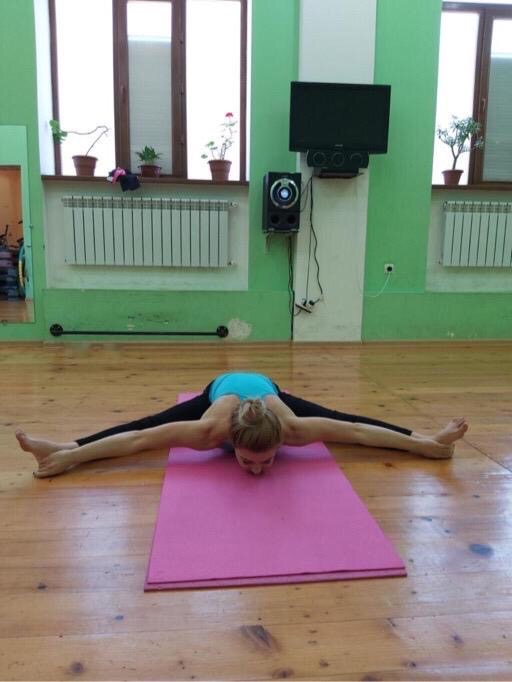
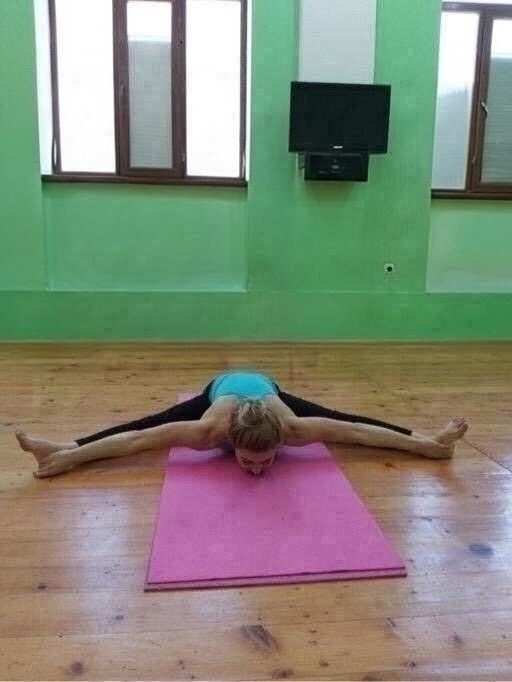
Put forest headstand first in gallery, use retouched forward fold photo

diff --git a/index.html b/index.html
@@ -281,12 +281,12 @@
     <p class="eyebrow">Պատկերասրահ</p>
     <h2>Իմ պրակտիկան</h2>
     <div class="gallery">
+      <figure class="wide"><img src="design-options/photos/forest-headstand.jpg" alt="Գլխի վրա կանգնած դիրք անտառում"></figure>
       <figure><img src="design-options/photos/studio-sidelunge.jpg" alt="Կողային խոր ձգում ստուդիայում"></figure>
-      <figure class="wide"><img src="design-options/photos/studio-sideplank.jpg" alt="Կողային հենակետային դիրք՝ ոտքի բռնումով"></figure>
+      <figure><img src="design-options/photos/studio-sideplank.jpg" alt="Կողային հենակետային դիրք՝ ոտքի բռնումով"></figure>
       <figure><img src="design-options/photos/beach-headstand.jpg" alt="Գլխի վրա կանգնած դիրք ծովափին՝ մայրամուտին"></figure>
       <figure><img src="design-options/photos/meadow-wheel.jpg" alt="Կամրջի դիրք բնության գրկում"></figure>
-      <figure><img src="design-options/photos/meadow-crow.jpg" alt="Ագռավի դիրք խոտի վրա"></figure>
-      <figure class="wide"><img src="design-options/photos/forest-headstand.jpg" alt="Գլխի վրա կանգնած դիրք անտառում"></figure>
+      <figure class="wide"><img src="design-options/photos/meadow-crow.jpg" alt="Ագռավի դիրք խոտի վրա"></figure>
       <figure class="wide"><img src="design-options/photos/studio-forwardfold.jpg" alt="Լայն ոտքերով առաջ թեքում ստուդիայում" style="object-position:50% 60%"></figure>
       <figure class="wide"><img src="design-options/photos/beach-lunge.jpg" alt="Ցածր ձգում ծովափի տախտակամածին"></figure>
     </div>
